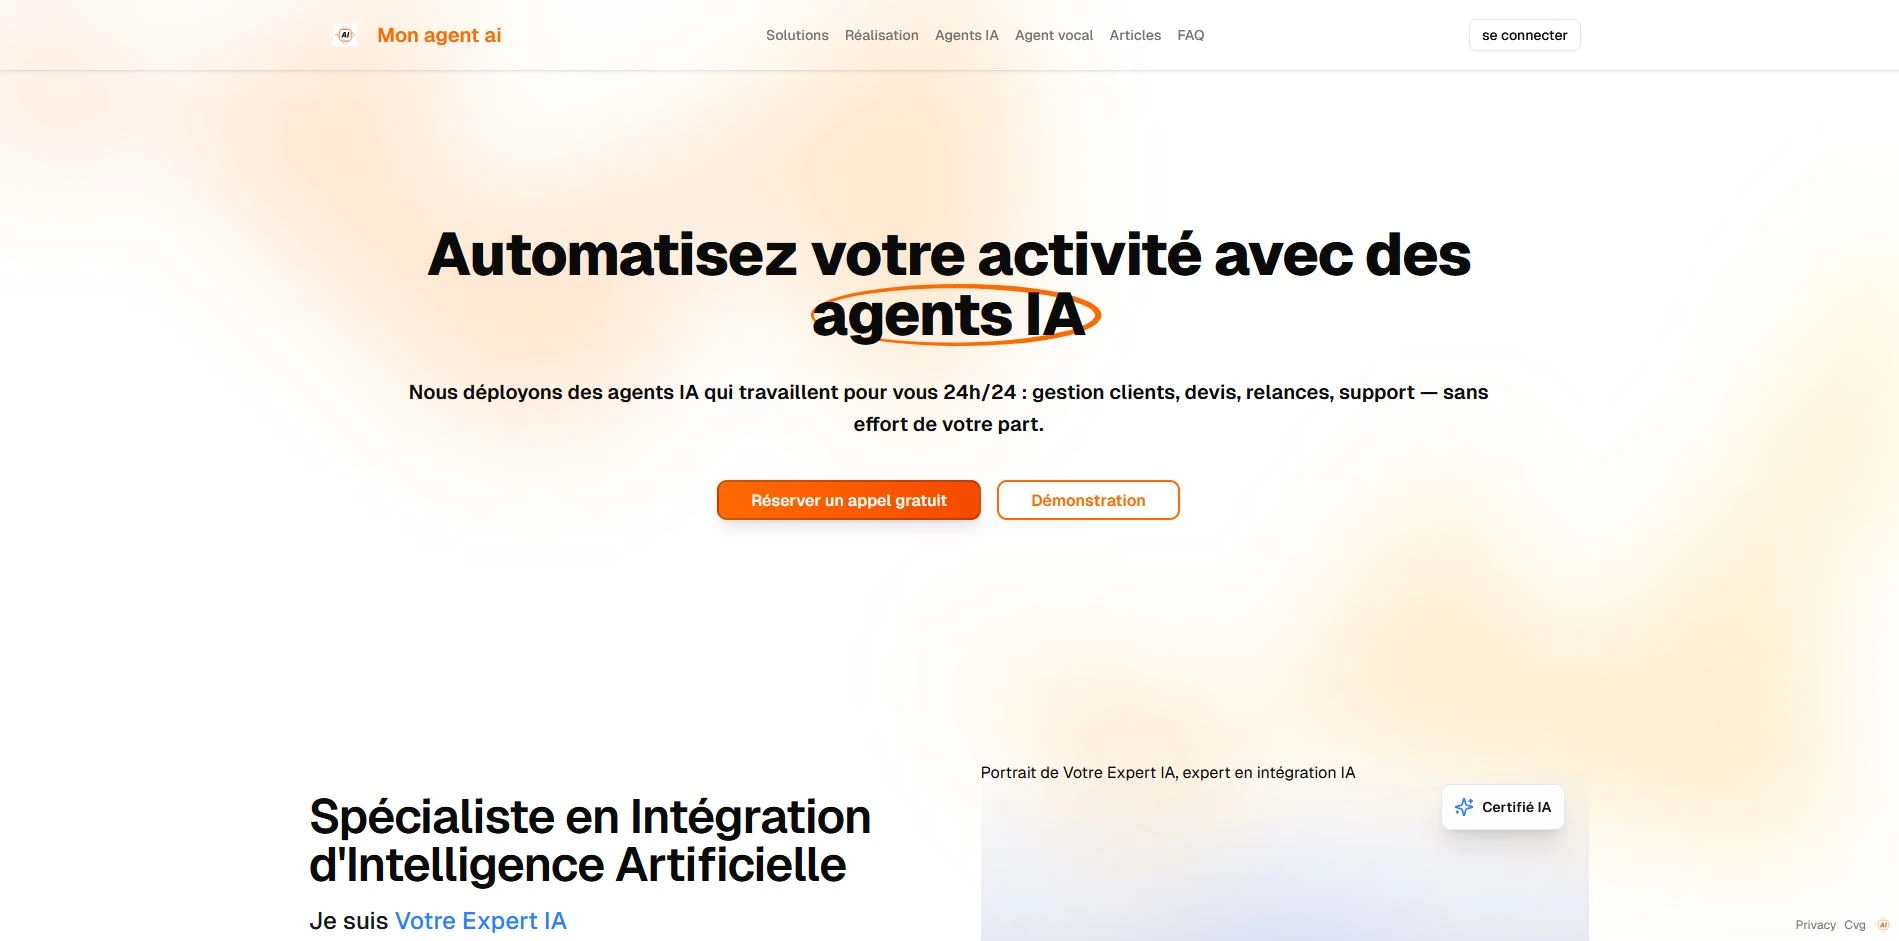
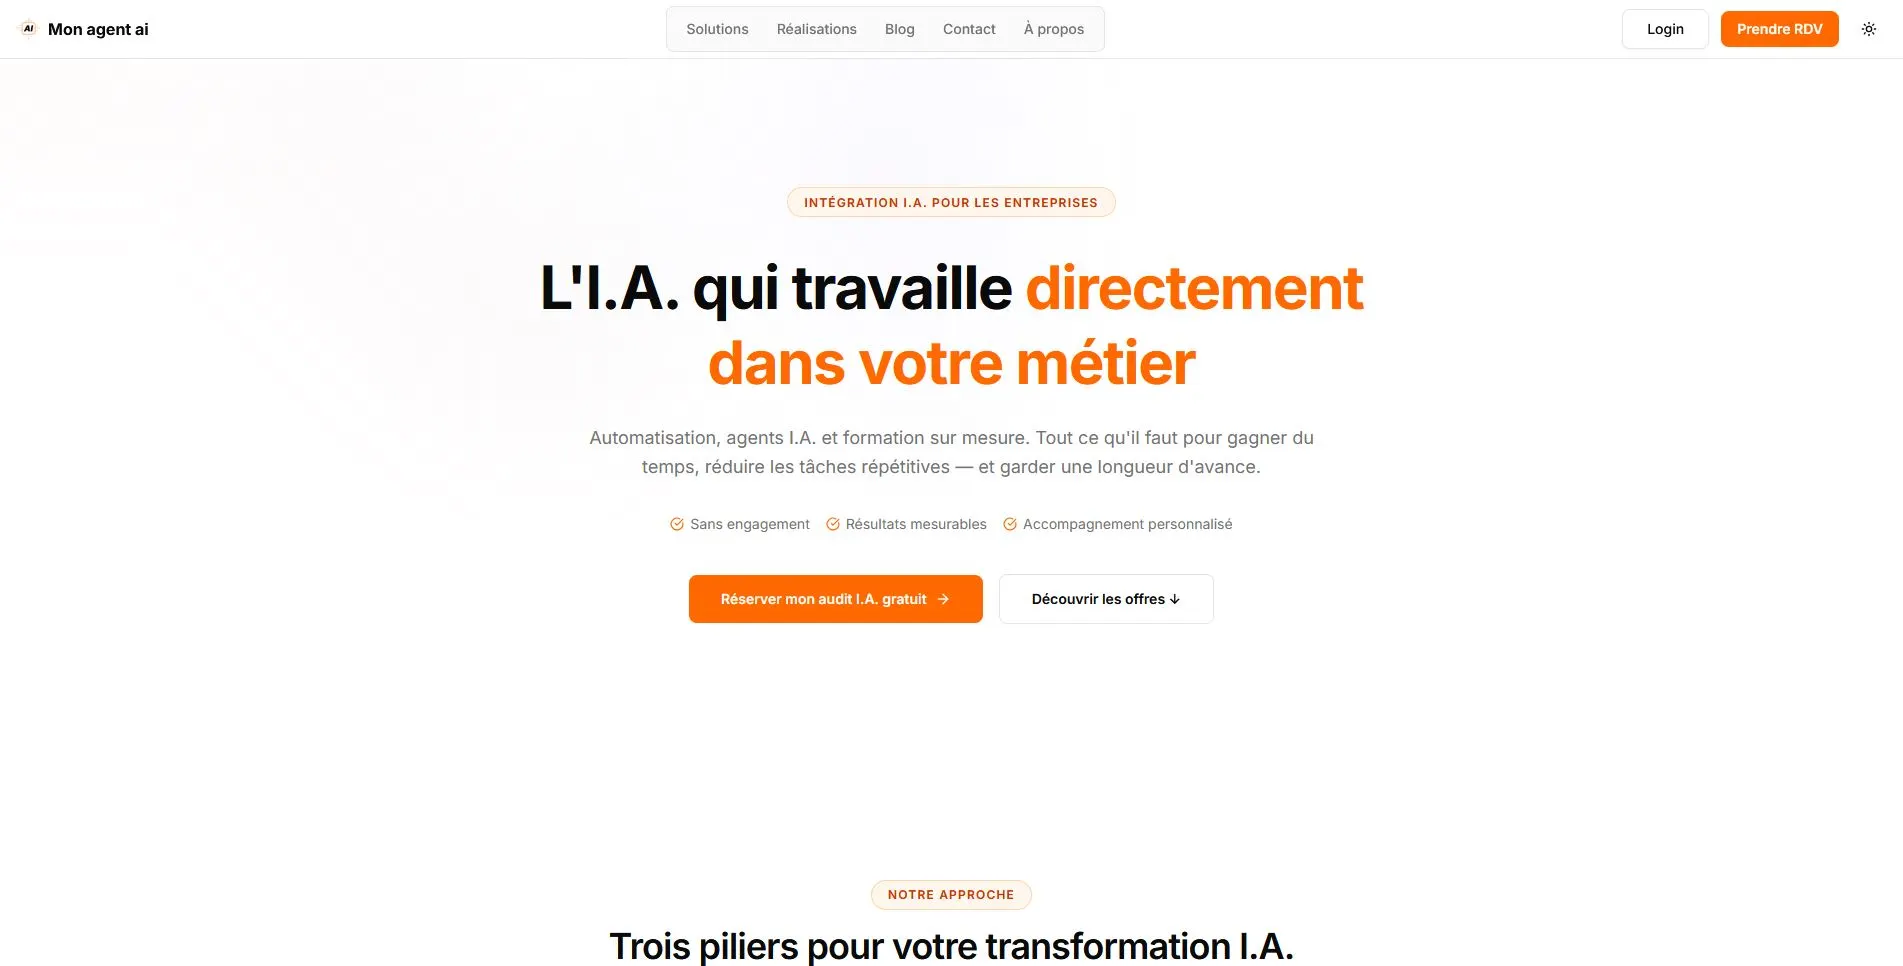
[Feature] add new project landing page

diff --git a/app/page.tsx b/app/page.tsx
@@ -12,10 +12,9 @@ import UnlcoachingImg from "@images/unlcoaching.png";
 import Portfolio      from "@images/portfolio.png";
 import HomeKasa       from "@images/HomeKasa.png";
 import HomeWealth     from "@images/WealthHealth_1.png";
-import HomeSegment    from "@images/home-segment.png";
+import HomeSegment    from "@images/segment-hero.webp";
 import HomRenovXp    from "@images/renov-expert.jpg";
 import HomeCabinet    from "@images/home-cabinet.png";
-// import MovieImg       from "@images/movie.png";
 import HomeAgentAi   from "@images/mon-agent-ai-hero.webp";
 import HomeLemurian       from "@images/lemurian-agency-hero.webp";
 
@@ -47,8 +46,8 @@ const projectsData: ProjectData[] = [
     developpement: "Full-Stack",
     image: HomRenovXp,
     contentType: "project",
-    btn: { href: "projects/renovexpert" },
-    btn1: { href: "https://renovexp.vercel.app/" },
+    btn: { href: "https://renovexp.vercel.app/" },
+    btn1: { href: "" },
     description:
       "Renov Experts est le site vitrine de Mathieu Hernandez, artisan menuisier basé à Mérignac. Fenêtres, baies vitrées, pergolas bioclimatiques et volets — plus de 200 chantiers réalisés en Gironde, avec devis gratuit sous 48h et SAV garanti dans la durée.",
   },
@@ -61,8 +60,8 @@ const projectsData: ProjectData[] = [
     developpement: "Full-Stack",
     image: HomeSegment,
     contentType: "project",
-    btn: { href: "projects/Segment-c" },
-    btn1: { href: "https://www.segment-c.com" },
+    btn: { href: "https://www.segment-c.com" },
+    btn1: { href: "" },
     description:
       "Segment.C est le site vitrine de Rui De Carvalho, artisan menuisier basé à St jean d'illac. Fenêtres, baies vitrées, portes, pergolas bioclimatiques et volets — plus de 200 chantiers réalisés en Gironde, avec devis gratuit sous 48h et SAV garanti dans la durée.",
   },
@@ -75,8 +74,8 @@ const projectsData: ProjectData[] = [
     developpement: "Full-Stack",
     image: HomeLemurian,
     contentType: "project",
-    btn: { href: "#" },
-    btn1: { href: "https://lemurian.agency" },
+    btn0: { href: "https://www.lemurian.agency" },
+    btn1: { href: "" },
     description:
       "Lemurian Agency est une agence spécialisée en création de sites web et SEO local pour les artisans et indépendants. Stratégie SEO, optimisation Google Business Profile et partenariat au lead — pour transformer la visibilité Google en machine à générer des clients qualifiés",
   },
@@ -89,8 +88,8 @@ const projectsData: ProjectData[] = [
     developpement: "Full-Stack",
     image: HomeAgentAi,
     contentType: "project",
-    btn: { href: "#" },
-    btn1: { href: "https://mon-agent-ia-seven.vercel.app/" },
+    btn: { href: "https://mon-agent-ia-seven.vercel.app/" },
+    btn1: { href: "" },
     description:
       "Mon Agent AI accompagne les entreprises dans leur évolution numérique — Création d'agents sur mesure (Claude, Paperclip, Ollama...), formation sur claude et intégration concrète de l'IA dans vos processus métier, sans compromis sur la souveraineté de vos données.",
   },
@@ -103,8 +102,8 @@ const projectsData: ProjectData[] = [
     developpement: "Full-Stack",
     image: HomeCabinet,
     contentType: "",
-    btn: { href: "#" },
-    btn1: { href: "https://www.docto-iota.vercel.app" },
+    btn: { href: "https://www.docto-iota.vercel.app" },
+    btn1: { href: "" },
     description:
       "i-Doctor est une plateforme innovante permettant de mettre en service une prise de rendez-vous par téléphone avec un assistant I.A. Elle permet aux médecins de planifier facilement leurs consultations par téléphone, tout en optimisant efficacement la gestion de leur emploi du temps.",
   },
@@ -117,8 +116,8 @@ const projectsData: ProjectData[] = [
     developpement: "Full-Stack",
     image: Express,
     contentType: "project",
-    btn: { href: "#" },
-    btn1: { href: "https://express-depannage-plomberie.vercel.app" },
+    btn: { href: "https://express-depannage-plomberie.vercel.app" },
+    btn1: { href: "" },
     description:
       "Express Plomberie est une vitrine dédiée aux services de plomberie d'urgence, disponible 24h/24 et 7j/7 sur Bordeaux. Les utilisateurs peuvent facilement accéder aux informations sur les interventions courantes, les tarifs et les réalisations de l'entreprise.",
   },
@@ -131,8 +130,8 @@ const projectsData: ProjectData[] = [
     developpement: "Full-Stack",
     image: UnlcoachingImg,
     contentType: "",
-    btn: { href: "#" },
-    btn1: { href: "https://www.project-ar-05.vercel.app" },
+    btn: { href: "https://www.project-ar-05.vercel.app" },
+    btn1: { href: "" },
     description:
       "Le site Unlcoaching est une plateforme dédiée au coaching sportif à Bordeaux, dirigée par Jérémy Prat. Il propose des programmes personnalisés combinant entraînement rigoureux et nutrition équilibrée, adaptés aux objectifs de chaque client.",
   },
@@ -145,8 +144,8 @@ const projectsData: ProjectData[] = [
     developpement: "Full-Stack",
     image: Portfolio,
     contentType: "project",
-    btn: { href: "#" },
-    btn1: { href: "https://project-ar-03-seven.vercel.app/" },
+    btn: { href: "https://project-ar-03-seven.vercel.app/" },
+    btn1: { href: "" },
     description:
       "Portfolio personnel présentant mes réalisations clients et projets personnels. Refonte complète avec Next.js, React, Tailwind CSS, Motion et déploiement sur VPS via Coolify.",
   },
@@ -159,8 +158,8 @@ const projectsData: ProjectData[] = [
     developpement: "Front-End",
     image: HomeWealth,
     contentType: "project",
-    btn: { href: "projects/WealthHealth" },
-    btn1: { href: "https://wealth-health-phi.vercel.app" },
+    btn: { href: "https://wealth-health-phi.vercel.app" },
+    btn1: { href: "" },
     description:
       "Application web interne pour l'entreprise HRnet. Permet de lister les employés avec création via formulaire, modal de confirmation et tableau récapitulatif des données.",
   },
@@ -173,8 +172,8 @@ const projectsData: ProjectData[] = [
     developpement: "Front-End",
     image: HomeKasa,
     contentType: "project",
-    btn: { href: "projects/Kasa" },
-    btn1: { href: "https://andyrama.github.io/AndyRamaroson_11_25112021/" },
+    btn: { href: "https://andyrama.github.io/AndyRamaroson_11_25112021/" },
+    btn1: { href: "" },
     description:
       "Refonte totale du site Kasa, plateforme de location de logements entre particuliers. Migration depuis ASP.NET vers une stack JavaScript moderne avec Node.js côté back-end et React côté front-end.",
   },